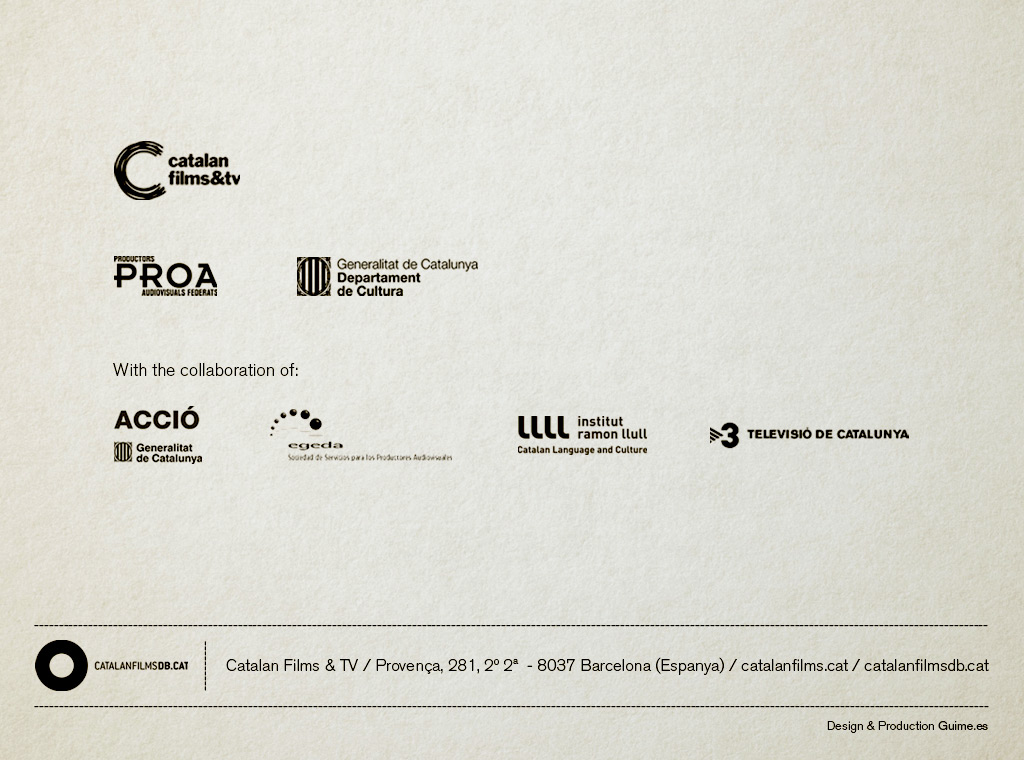
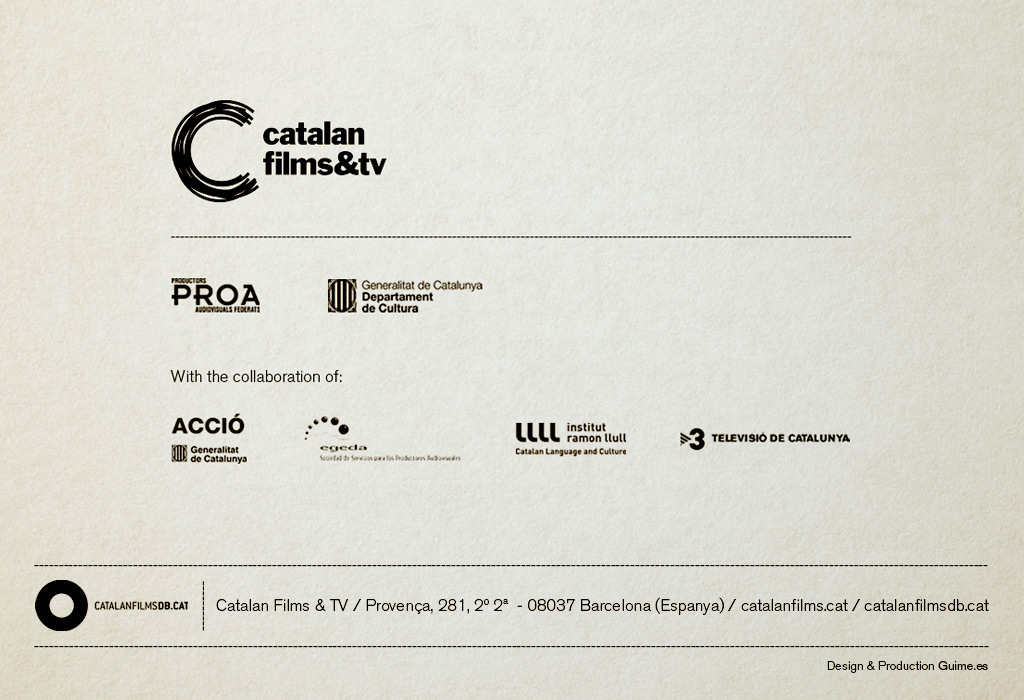
Links in subsection categories. Move some movies to different format. New credits image. Other fixes.

diff --git a/CatalanFilms/root/src/html_templates/documentary.tt.html b/CatalanFilms/root/src/html_templates/documentary.tt.html
@@ -4,11 +4,11 @@
         <div class="category-entry-info">
             <h2 class="documentary-color">Documentary /</h2>
             <p>
-                <span%% IF format_id == "documentary-featurefilms" %% class="selected"%% END %%>Feature Films</span> / 
-                <span%% IF format_id == "documentary-shortfilms" %% class="selected"%% END %%>Short Films</span> / 
-                <span%% IF format_id == "documentary-televisiondocumentaries" %% class="selected"%% END %%>TV Documentaries</span><br />
-                <span%% IF format_id == "documentary-televisiondocumentariesseries" %% class="selected"%% END %%>Documentary Series</span> / 
-                <span%% IF format_id == "documentary-transmedia" %% class="selected"%% END %%>Transmedia</span>
+                <a href="#documentary-featurefilms"%% IF format_id == "documentary-featurefilms" %% class="selected"%% END %%>Feature Films</a> / 
+                <a href="#documentary-shortfilms"%% IF format_id == "documentary-shortfilms" %% class="selected"%% END %%>Short Films</a> / 
+                <a href="#documentary-televisiondocumentaries"%% IF format_id == "documentary-televisiondocumentaries" %% class="selected"%% END %%>TV Documentaries</a><br />
+                <a href="#documentary-televisiondocumentariesseries"%% IF format_id == "documentary-televisiondocumentariesseries" %% class="selected"%% END %%>Documentary Series</a> / 
+                <a href="#documentary-transmedia"%% IF format_id == "documentary-transmedia" %% class="selected"%% END %%>Transmedia</a>
             </p>
         </div>
     </div>

diff --git a/CatalanFilms/root/src/html_templates/fiction.tt.html b/CatalanFilms/root/src/html_templates/fiction.tt.html
@@ -5,11 +5,11 @@
         <div class="category-entry-info">
             <h2 class="fiction-color">Fiction /</h2>
             <p>
-                <span%% IF format_id == "fiction-featurefilms" %% class="selected"%% END %%>Feature Films</span> / 
-                <span%% IF format_id == "fiction-shortfilms" %% class="selected"%% END %%>Short Films</span> / 
-                <span%% IF format_id == "fiction-tvmovies" %% class="selected"%% END %%>TV Movies</span><br />
-                <span%% IF format_id == "fiction-tvseries" %% class="selected"%% END %%>TV Series</span> / 
-                <span%% IF format_id == "fiction-fiction-webseries" %% class="selected"%% END %%>Web Series</span>
+                <a href="#fiction-featurefilms"%% IF format_id == "fiction-featurefilms" %% class="selected"%% END %%>Feature Films</a> /
+                <a href="#fiction-shortfilms"%% IF format_id == "fiction-shortfilms" %% class="selected"%% END %%>Short Films</a> /
+                <a href="#fiction-tvmovies"%% IF format_id == "fiction-tvmovies" %% class="selected"%% END %%>TV Movies</a> /<br />
+                <a href="#fiction-tvseries"%% IF format_id == "fiction-tvseries" %% class="selected"%% END %%>TV Series</a> /
+                <a href="#fiction-fiction-webseries"%% IF format_id == "fiction-fiction-webseries" %% class="selected"%% END %%>Web Series</a> /
             </p>
         </div>
     </div>

diff --git a/CatalanFilms/root/src/html_templates/animation.tt.html b/CatalanFilms/root/src/html_templates/animation.tt.html
@@ -4,11 +4,11 @@
         <div class="category-entry-info">
             <h2 class="animation-color">Animation /</h2>
             <p>
-                <span%% IF format_id == "animation-featurefilms" %% class="selected"%% END %%>Feature Films</span> / 
-                <span%% IF format_id == "animation-shortfilms" %% class="selected"%% END %%>Short Films</span> / 
-                <span%% IF format_id == "animation-tvseries" %% class="selected"%% END %%>TV Series</span><br />
-                <span%% IF format_id == "animation-webseries" %% class="selected"%% END %%>Web Series</span> / 
-                <span%% IF format_id == "animation-apps" %% class="selected"%% END %%>Apps</span>
+                <a href="#animation-featurefilms"%% IF format_id == "animation-featurefilms" %% class="selected"%% END %%>Feature Films</a> / 
+                <a href="#animation-shortfilms"%% IF format_id == "animation-shortfilms" %% class="selected"%% END %%>Short Films</a> / 
+                <a href="#animation-tvseries"%% IF format_id == "animation-tvseries" %% class="selected"%% END %%>TV Series</a><br />
+                <a href="#animation-webseries"%% IF format_id == "animation-webseries" %% class="selected"%% END %%>Web Series</a> / 
+                <a href="#animation-apps"%% IF format_id == "animation-apps" %% class="selected"%% END %%>Apps</a>
             </p>
         </div>
     </div>

diff --git a/CatalanFilms/root/src/ttsite.css b/CatalanFilms/root/src/ttsite.css
@@ -119,7 +119,11 @@ div.category-entry-info p {
     font-family: "AkzidenzGrotesk-Light";
 }
 
-div.category-entry-info p span.selected {
+div.category-entry-info p a {
+    color: #000;
+}
+
+div.category-entry-info p a.selected {
     font-size: 40px;
 }
 
@@ -413,7 +417,8 @@ div.title-index .column {
 }
 
 div.sales-producers .column {
-    width: 49%;
+    width: 50%;
+    padding-right: 0;
 }
 
 div.title-index .column p.letter {
@@ -427,6 +432,10 @@ div.title-index .column p.letter {
 
 div.sales-producers .column p.letter {
     padding: 15px 0 63px 0;
+}
+
+div.sales-producers .column p.title-value {
+    font-size: 14px;
 }
 
 div.title-index .column p.title-value {

diff --git a/CatalanFilms/root/src/html_templates/eventsinstitutions.tt.html b/CatalanFilms/root/src/html_templates/eventsinstitutions.tt.html
@@ -1,3 +1,10 @@
+<div class="page category-entry">
+    <div class="inner-content">
+        <div class="category-entry-info">
+            <h2>Events & Institutions /</h2>
+        </div>
+    </div>
+</div>
 [%
     links = {
         "001" = "http://www.academiadelcinema.cat/ca/"
